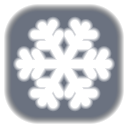
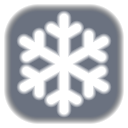
Give the snowflake matching bars on every arm.
The old mark only branched the vertical axis, so the landing and 16px toolbar read as a plus.

diff --git a/scripts/generate-icons.js b/scripts/generate-icons.js
@@ -102,24 +102,21 @@ function distToSegment(px, py, ax, ay, bx, by) {
 
 function snowflakeSegments(size) {
   const c = size / 2;
-  const arm = size * 0.34;
+  const arm = size * 0.36;
   const segs = [];
   for (let k = 0; k < 6; k++) {
-    const ang = (k * Math.PI) / 3;
+    // Start at 12 o'clock so every arm, including diagonals, is identical.
+    const ang = (k * Math.PI) / 3 - Math.PI / 2;
     const dx = Math.cos(ang);
     const dy = Math.sin(ang);
-    const tipX = c + arm * dx;
-    const tipY = c + arm * dy;
-    segs.push([c, c, tipX, tipY]);
-    // two pairs of branches along each arm
-    for (const at of [0.5, 0.78]) {
-      const bx = c + arm * at * dx;
-      const by = c + arm * at * dy;
-      const blen = arm * 0.28;
-      for (const off of [Math.PI / 3, -Math.PI / 3]) {
-        const a2 = ang + off;
-        segs.push([bx, by, bx + blen * Math.cos(a2), by + blen * Math.sin(a2)]);
-      }
+    segs.push([c, c, c + arm * dx, c + arm * dy]);
+    const at = 0.62;
+    const bx = c + arm * at * dx;
+    const by = c + arm * at * dy;
+    const blen = arm * 0.32;
+    for (const off of [Math.PI / 3, -Math.PI / 3]) {
+      const a2 = ang + off;
+      segs.push([bx, by, bx + blen * Math.cos(a2), by + blen * Math.sin(a2)]);
     }
   }
   return segs;

diff --git a/site/index.html b/site/index.html
@@ -23,8 +23,14 @@
       <aside class="panel-left">
         <div class="brand">
           <svg class="mark" viewBox="0 0 24 24" aria-hidden="true">
-            <path d="M12 2v20M4.5 6.5l15 11M4.5 17.5l15-11" />
-            <path d="M12 6.2 9.8 4.8M12 6.2l2.2-1.4M12 17.8l-2.2 1.4M12 17.8l2.2 1.4" />
+            <g transform="translate(12 12)">
+              <path d="M0 0v-9.2M-2-5.85 0-4.45l2-1.4" transform="rotate(0)"/>
+              <path d="M0 0v-9.2M-2-5.85 0-4.45l2-1.4" transform="rotate(60)"/>
+              <path d="M0 0v-9.2M-2-5.85 0-4.45l2-1.4" transform="rotate(120)"/>
+              <path d="M0 0v-9.2M-2-5.85 0-4.45l2-1.4" transform="rotate(180)"/>
+              <path d="M0 0v-9.2M-2-5.85 0-4.45l2-1.4" transform="rotate(240)"/>
+              <path d="M0 0v-9.2M-2-5.85 0-4.45l2-1.4" transform="rotate(300)"/>
+            </g>
           </svg>
           Freeze
         </div>
